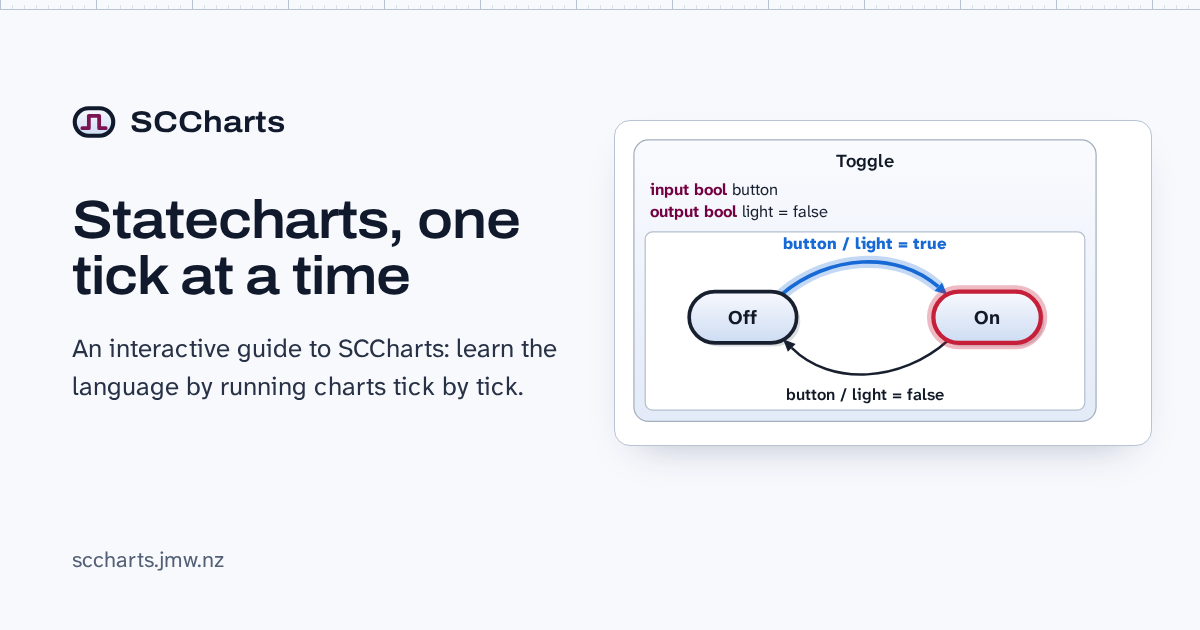
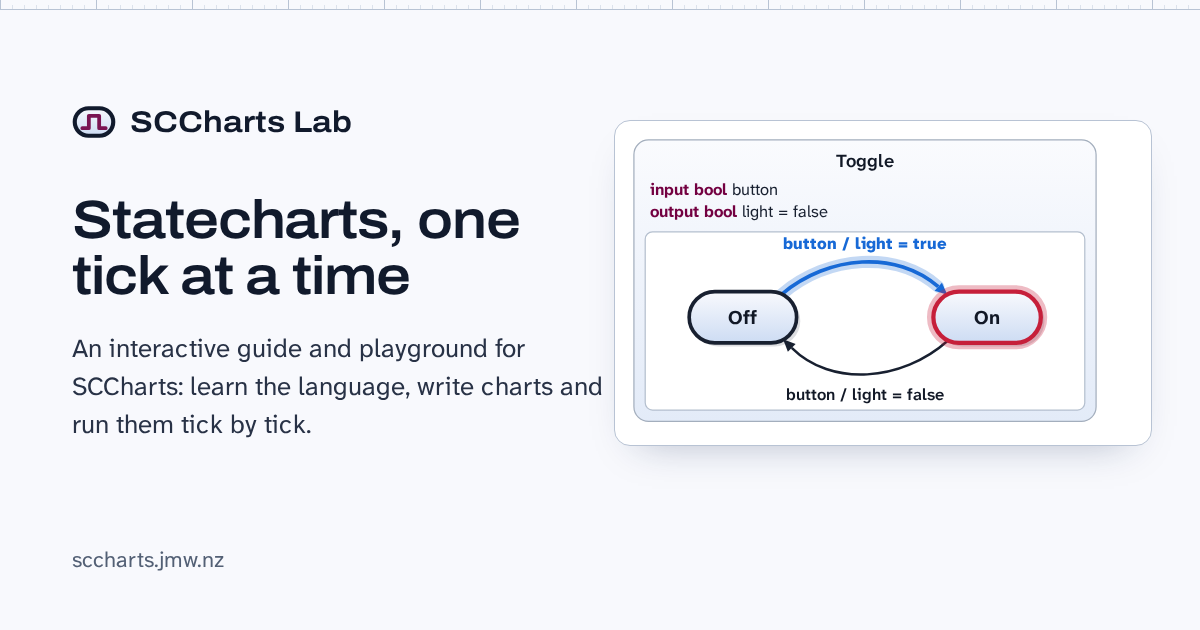
Brand the site SCCharts Lab: title, header, landing, social card

diff --git a/site/README.md b/site/README.md
@@ -1,4 +1,4 @@
-# SCCharts: an interactive guide
+# SCCharts Lab: an interactive guide and playground for SCCharts
 
 The source of [sccharts.jmw.nz](https://sccharts.jmw.nz): a beginner-friendly, comprehensive guide to the
 SCCharts language whose examples run in the browser. A TypeScript engine parses SCTX, draws charts in
